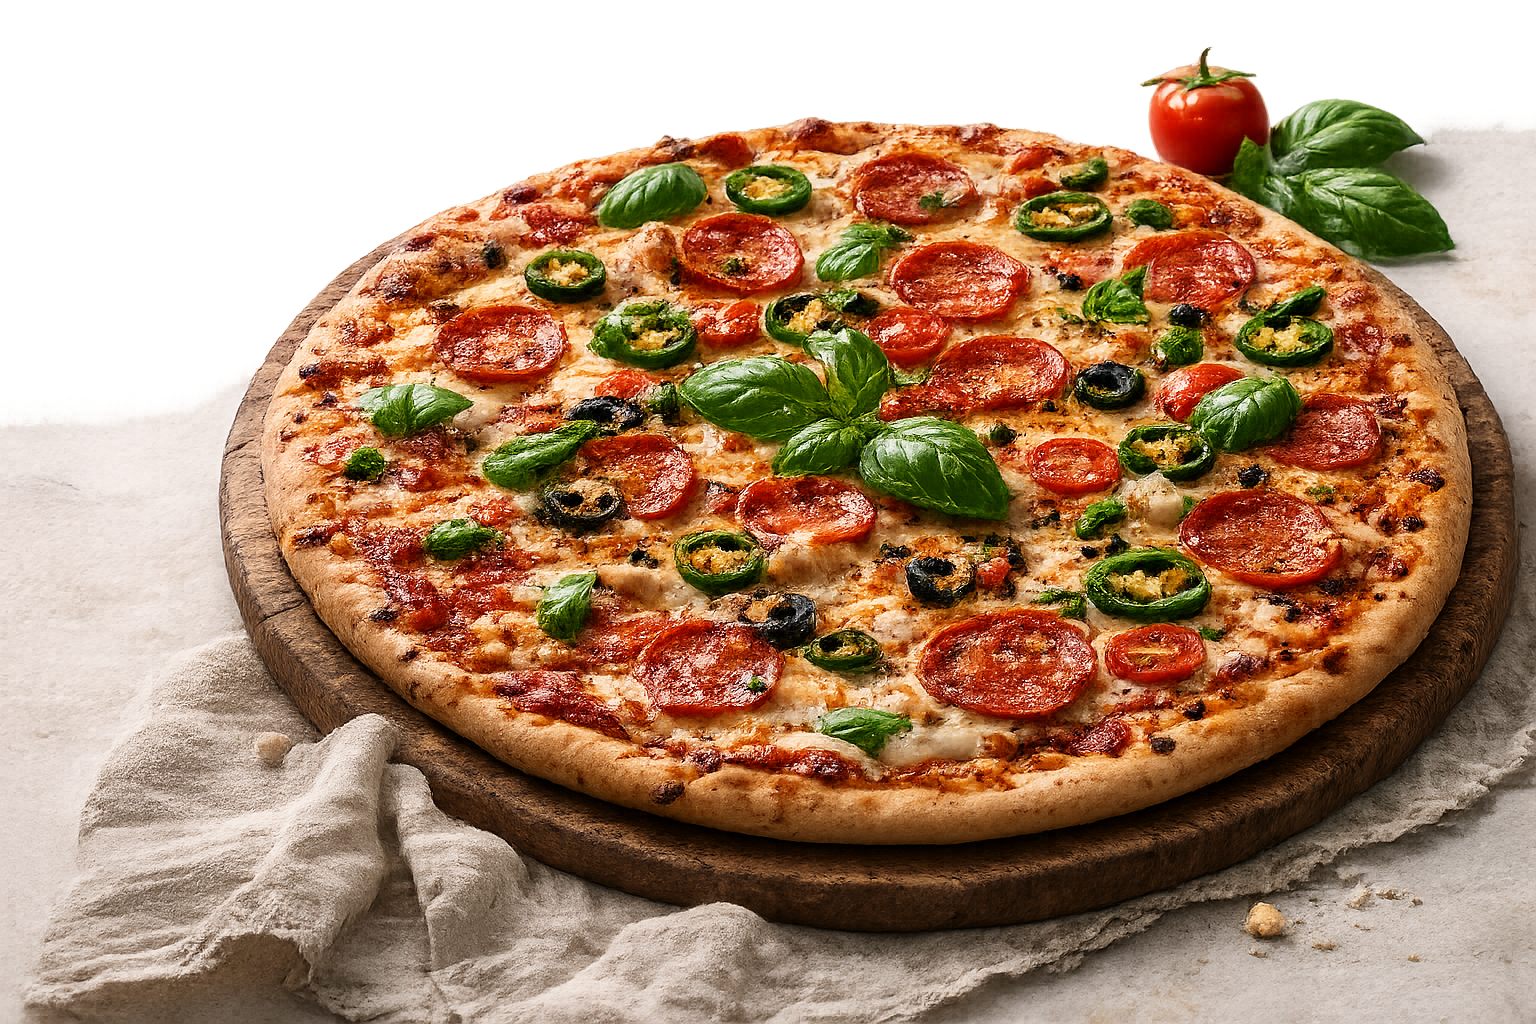
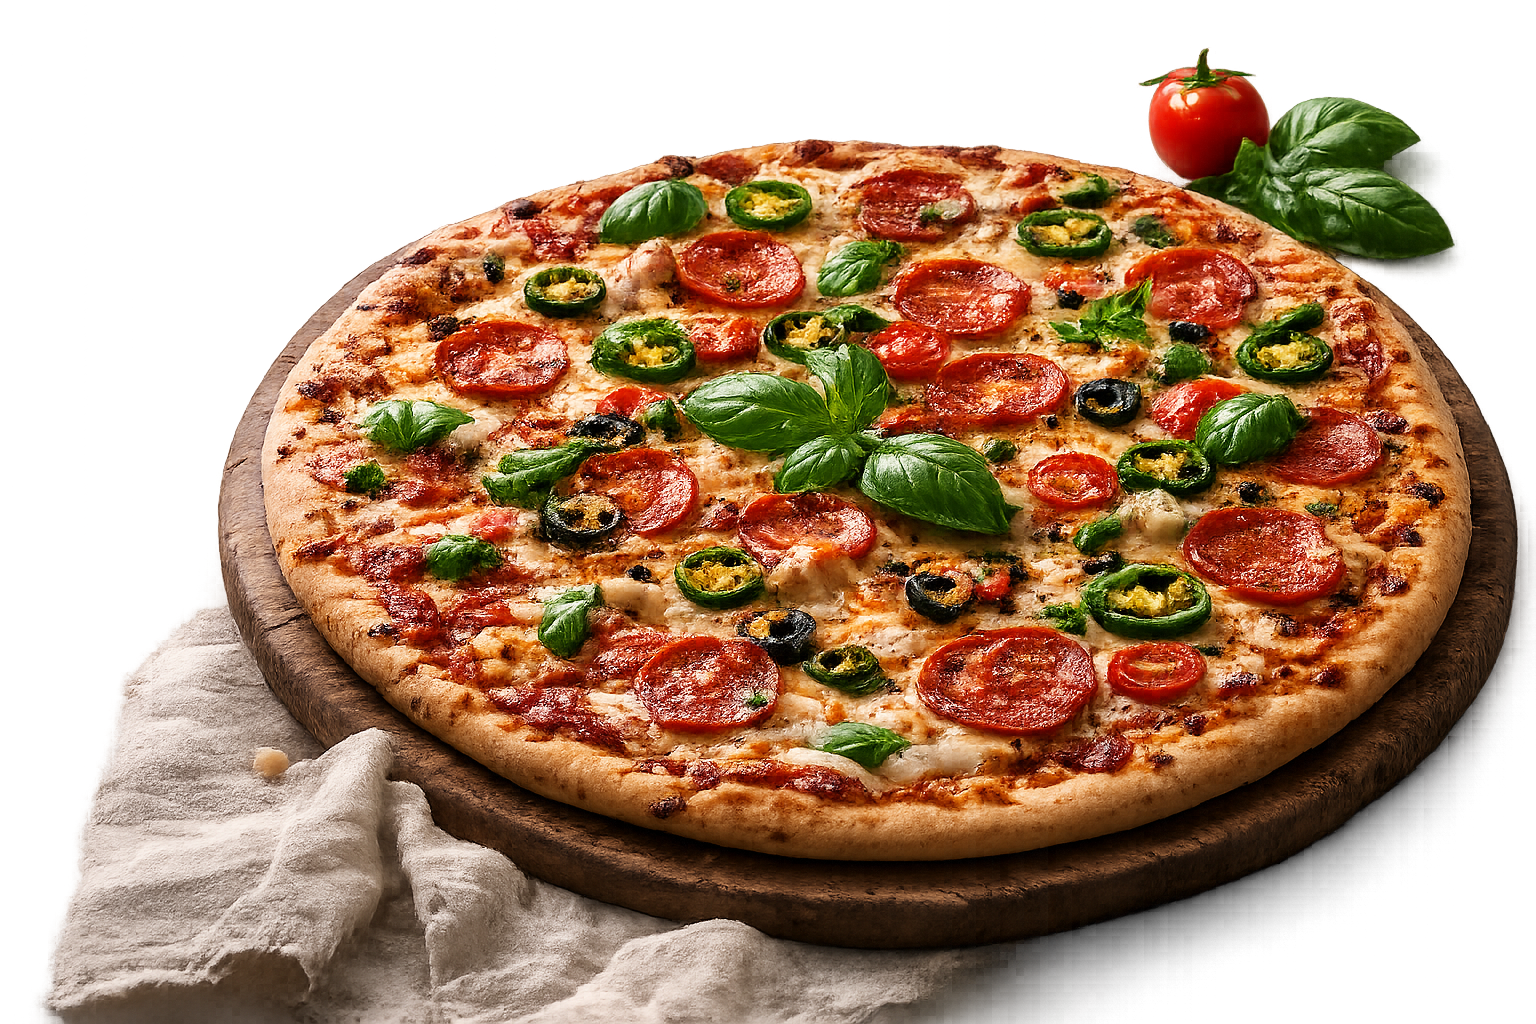
feature home section

diff --git a/src/components/layouts/Navbar.tsx b/src/components/layouts/Navbar.tsx
@@ -12,7 +12,7 @@ const links = [
 
 export const Navbar = () => {
   return (
-    <nav className="sticky top-0 z-50 bg-white/95 backdrop-blur-sm ">
+    <nav className="sticky top-0 z-50  backdrop-blur-sm ">
       <div className="max-w-7xl mx-auto px-4 sm:px-6 lg:px-8">
         <div className="flex justify-between items-center h-20 ">
           

diff --git a/src/components/layouts/Hero.tsx b/src/components/layouts/Hero.tsx
@@ -55,7 +55,7 @@ export const Hero = () => {
             <img
               src="/pizza-home.png"
               alt="Pizza artesanal"
-              className="w-[850px] max-w-none object-contain drop-shadow-2xl"
+              className="w-[850px] max-w-none object-contain drop-shadow-2xl translate-x-32"
             />
 
           </div>

diff --git a/src/index.css b/src/index.css
@@ -3,3 +3,7 @@
 @tailwind base;
 @tailwind components;
 @tailwind utilities;
+
+body {
+    background-color: #f7f4ef;
+}
